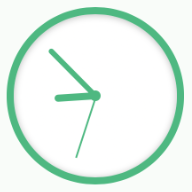
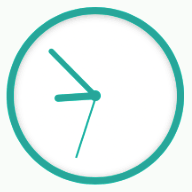
New colour

Changed region(s): [[0.0312, 0.0312, 0.9688, 0.9688], [0.25, 0.25, 0.5312, 0.5938], [0.375, 0.5938, 0.4688, 0.8438]]

diff --git a/style.css b/style.css
@@ -1,1 +1,1 @@
-/*! version 1.3.0 */body{margin:0;background:#F9FCF9;font-family:-apple-system,'Helvetica Neue',sans-serif;-webkit-font-smoothing:antialiased;color:#2C3E50}a{text-decoration:none;color:#577549}a:hover{text-decoration:underline}header{padding-bottom:1.5em;text-align:center}aside{position:absolute;bottom:0;left:0;right:0;padding:1em;background:#FFC4C4;text-align:center}section{display:flex;flex-flow:row wrap}.container{max-width:900px;margin:0 auto}#clock{flex:1;width:200px;height:400px}#clock-circle{position:relative;box-sizing:border-box;width:400px;height:400px;margin:0 auto;background:radial-gradient(50% 50%, white 175px, transparent 175px, transparent 185px, white 185px),linear-gradient(0deg, transparent 49%, #F3F6F8 49%, #F3F6F8 51%, transparent 51%) center center,linear-gradient(90deg, transparent 49%, #F3F6F8 49%, #F3F6F8 51%, transparent 51%) center center,linear-gradient(30deg, transparent 49.5%, #F3F6F8 49.5%, #F3F6F8 50.5%, transparent 50.5%) center center,linear-gradient(60deg, transparent 49.5%, #F3F6F8 49.5%, #F3F6F8 50.5%, transparent 50.5%) center center,linear-gradient(120deg, transparent 49.5%, #F3F6F8 49.5%, #F3F6F8 50.5%, transparent 50.5%) center center,linear-gradient(150deg, transparent 49.5%, #F3F6F8 49.5%, #F3F6F8 50.5%, transparent 50.5%) center center,white;border:8px solid #42B983;border-radius:50%;box-shadow:inset 0 1px 8px rgba(34,34,34,0.3)}#clock-face{width:100%;height:100%}#clock-face span{position:absolute;z-index:10;top:50%;left:50%;width:0;height:0;background:#42B983;transform-origin:50% 100%}#clock-face:after{content:'';display:block;position:absolute;top:50%;left:50%;width:12px;height:12px;margin:-6px 0 0 -6px;background:#42B983;border-radius:6px}#clock-hour{margin:-4px 0 -4px -25%;padding:4px 0 4px 25%;transform-origin:100% 50% !important;border-radius:4px 0 0 4px}#clock-minute{margin:-40% -3px 0;padding:40% 3px 0;border-radius:3px 3px 0 0}#clock-second{margin:-40% -1px 0 0;padding:40% 1px 0}#digital-face{position:absolute;opacity:.25;left:100px;bottom:15%;width:200px;font-family:'Courier New',Courier,monospace;font-size:150%;text-align:center}#digital-face span{display:inline-block;margin:0}#digital-face span:before{content:':';display:inline-block}#digital-hour:before{display:none !important}#tasks{flex:5;font-size:85%}#tasks ol{display:flex;flex-flow:column;height:100%;margin:0;padding:0}#tasks li{flex:1;display:block;height:3em;padding:.5em 0 .5em 250px;border-bottom:#42B983}#tasks li:hover{background:rgba(27,31,35,0.05)}#tasks .name{display:block;font-size:115%}#tasks .now{background:#42B983 !important;color:#FFF}#tasks .soon{background:#f3f5f7}#tasks #info{opacity:.7;padding:1em;font-size:75%}@media (max-width:900px){header{padding-bottom:0}section{transform:scale(.9)}}@media (max-width:700px){section{display:block;transform:scale(1)}#clock{text-align:center;width:100%;height:200px;margin-bottom:1em}#clock #clock-circle{width:200px;height:200px}#clock #digital-face{width:184px;left:0;font-size:105%}#tasks li{height:auto;padding-left:5px;border:1px solid #F3F6F8}}@media (prefers-color-scheme:dark){body{background:#000;filter:invert(.9)}}
+/*! version 1.3.1 */body{margin:0;background:#F9FCF9;font-family:-apple-system,'Helvetica Neue',sans-serif;-webkit-font-smoothing:antialiased;color:#2C3E50}a{text-decoration:none;color:#577549}a:hover{text-decoration:underline}header{padding-bottom:1.5em;text-align:center}aside{position:absolute;bottom:0;left:0;right:0;padding:1em;background:#FFC4C4;text-align:center}section{display:flex;flex-flow:row wrap}.container{max-width:900px;margin:0 auto}#clock{flex:1;width:200px;height:400px}#clock-circle{position:relative;box-sizing:border-box;width:400px;height:400px;margin:0 auto;background:radial-gradient(50% 50%, white 175px, transparent 175px, transparent 185px, white 185px),linear-gradient(0deg, transparent 49%, #F3F6F8 49%, #F3F6F8 51%, transparent 51%) center center,linear-gradient(90deg, transparent 49%, #F3F6F8 49%, #F3F6F8 51%, transparent 51%) center center,linear-gradient(30deg, transparent 49.5%, #F3F6F8 49.5%, #F3F6F8 50.5%, transparent 50.5%) center center,linear-gradient(60deg, transparent 49.5%, #F3F6F8 49.5%, #F3F6F8 50.5%, transparent 50.5%) center center,linear-gradient(120deg, transparent 49.5%, #F3F6F8 49.5%, #F3F6F8 50.5%, transparent 50.5%) center center,linear-gradient(150deg, transparent 49.5%, #F3F6F8 49.5%, #F3F6F8 50.5%, transparent 50.5%) center center,white;border:8px solid #26A69A;border-radius:50%;box-shadow:inset 0 1px 8px rgba(34,34,34,0.3)}#clock-face{width:100%;height:100%}#clock-face span{position:absolute;z-index:10;top:50%;left:50%;width:0;height:0;background:#26A69A;transform-origin:50% 100%}#clock-face:after{content:'';display:block;position:absolute;top:50%;left:50%;width:12px;height:12px;margin:-6px 0 0 -6px;background:#26A69A;border-radius:6px}#clock-hour{margin:-4px 0 -4px -25%;padding:4px 0 4px 25%;transform-origin:100% 50% !important;border-radius:4px 0 0 4px}#clock-minute{margin:-40% -3px 0;padding:40% 3px 0;border-radius:3px 3px 0 0}#clock-second{margin:-40% -1px 0 0;padding:40% 1px 0}#digital-face{position:absolute;opacity:.25;left:100px;bottom:15%;width:200px;font-family:'Courier New',Courier,monospace;font-size:150%;text-align:center}#digital-face span{display:inline-block;margin:0}#digital-face span:before{content:':';display:inline-block}#digital-hour:before{display:none !important}#tasks{flex:5;font-size:85%}#tasks ol{display:flex;flex-flow:column;height:100%;margin:0;padding:0}#tasks li{flex:1;display:block;height:3em;padding:.5em 0 .5em 250px;border-bottom:#26A69A}#tasks li:hover{background:rgba(27,31,35,0.05)}#tasks .name{display:block;font-size:115%}#tasks .now{background:#26A69A !important;color:#FFF}#tasks .soon{background:#f3f5f7}#tasks #info{opacity:.7;padding:1em;font-size:75%}@media (max-width:900px){header{padding-bottom:0}section{transform:scale(.9)}}@media (max-width:700px){section{display:block;transform:scale(1)}#clock{text-align:center;width:100%;height:200px;margin-bottom:1em}#clock #clock-circle{width:200px;height:200px}#clock #digital-face{width:184px;left:0;font-size:105%}#tasks li{height:auto;padding-left:5px;border:1px solid #F3F6F8}}@media (prefers-color-scheme:dark){body{background:#000;filter:invert(.9)}}

diff --git a/index.html b/index.html
@@ -12,7 +12,7 @@
 <meta name="mobile-web-app-capable" content="yes">
 <meta name="application-name" content="What Work When">
 <link rel="manifest" href="/site.webmanifest">
-<meta name="theme-color" content="#42B983">
+<meta name="theme-color" content="#26A69A">
 <link rel="stylesheet" href="/style.css">
 <!--
 

diff --git a/style.less b/style.less
@@ -1,11 +1,11 @@
 // out: style.css, compress: true
 
-/*! version 1.3.0 */
+/*! version 1.3.1 */
 
 // LESS Variables
 @color-text: #2C3E50;
 @color-link: #577549;
-@color-clock: #42B983;
+@color-clock: #26A69A;
 @color-indicators: #F3F6F8;
 
 body {
